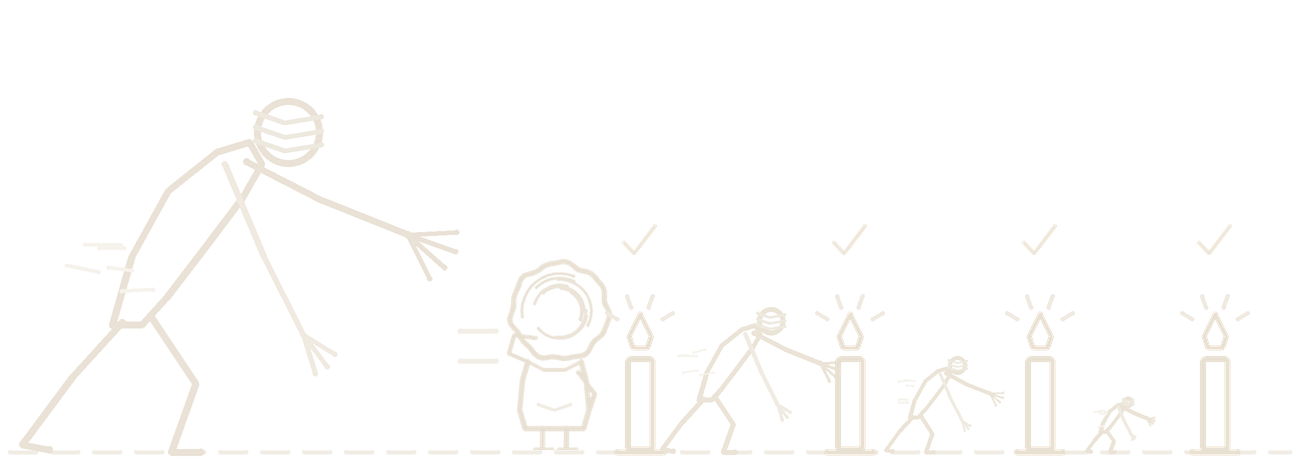
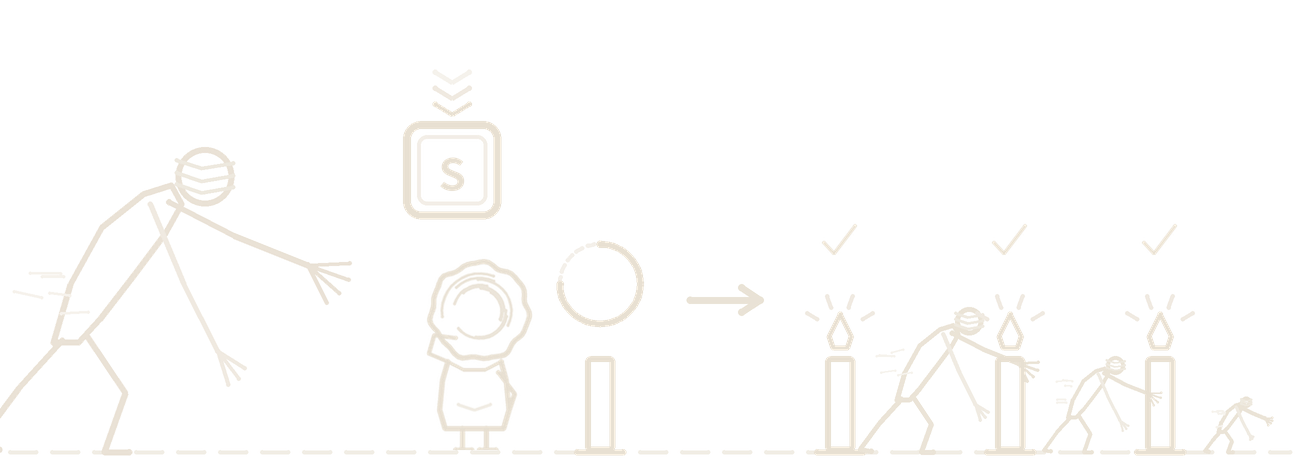
荒原鳥轉向改成直接翻面不破圖；玻璃館「按住 S 點燃」的線條畫提示
IndividualBirdEnemy：鳥的朝向只在畫面左右之間翻面（FaceDirection），不再 Slerp 經過鏡頭軸；側向分量保留下限，復飛卡住時也直接翻。
Hints/Glass_Candles_light：重畫成按住 S 點燃燭台（黑影→她→按住 S→未點燃的燭台與進度圈→點燃三根）。

Claude-Session: https://claude.ai/code/session_01YVYbGgVa5ojmU4WotKzRti

diff --git a/Assets/Codes/IndividualBirdEnemy.cs b/Assets/Codes/IndividualBirdEnemy.cs
@@ -350,6 +350,47 @@ public class IndividualBirdEnemy : MonoBehaviour, IResettable
     [Tooltip("模型旋轉偏移角度 (預設 0,0,0)")]
     public Vector3 modelRotationOffset = Vector3.zero;
 
+    // ── ★1022 轉向不破圖（M：鳥群模型轉向會破圖）──────────────────
+    //   鳥是側面看的模型；原本左右轉向是用 Slerp 慢慢繞過正面，中間那幾格看到的是薄片、翻面，就是破圖。
+    //   改成：水平朝向一變就直接翻面（像 2D 翻面），只有同一側的俯仰、側傾才平滑；
+    //   而且朝向永遠保留一點水平分量，不會變成正對鏡頭或直上直下。
+    [Header("★1022 轉向不破圖")]
+    [Tooltip("開＝左右朝向改變時直接翻面，不經過正面；關＝原本的平滑轉向")]
+    public bool snapHorizontalFlip = true;
+    [Tooltip("朝向的水平分量小於這個值時沿用上一個朝向，避免 8 字端點來回抖")]
+    public float flipDeadZone = 0.08f;
+    [Tooltip("朝向至少保留多少水平分量（0～1），避免模型正對鏡頭、直上或直下時看起來像薄片")]
+    [Range(0.1f, 0.9f)] public float minSideComponent = 0.35f;
+    private int _faceSign = 0;
+
+    /// <summary>★1022 把「朝 dir 看」套到 transform.rotation：水平朝向翻面就直接套，同一側才平滑。</summary>
+    private void FaceDirection(Vector3 dir, Vector3 up, Vector3 extraEuler, float smooth)
+    {
+        if (dir.sqrMagnitude < 0.0001f) return;
+        if (!snapHorizontalFlip)
+        {
+            Quaternion plain = Quaternion.LookRotation(dir.normalized, up) * Quaternion.Euler(modelRotationOffset + extraEuler);
+            transform.rotation = Quaternion.Slerp(transform.rotation, plain, Time.deltaTime * smooth);
+            return;
+        }
+        float x = Vector3.Dot(dir, _camRight);
+        float y = Vector3.Dot(dir, _camUp);
+        int sgn = Mathf.Abs(x) < flipDeadZone ? _faceSign : (x >= 0f ? 1 : -1);
+        if (sgn == 0) sgn = 1;
+        Vector3 side = _camRight * (sgn * Mathf.Max(Mathf.Abs(x), minSideComponent)) + _camUp * y;
+        if (side.sqrMagnitude < 0.0001f) side = _camRight * sgn;
+        Quaternion target = Quaternion.LookRotation(side.normalized, up) * Quaternion.Euler(modelRotationOffset + extraEuler);
+        if (sgn != _faceSign)
+        {
+            _faceSign = sgn;
+            transform.rotation = target;   // 翻面：一格到位，不繞過正面
+        }
+        else
+        {
+            transform.rotation = Quaternion.Slerp(transform.rotation, target, Time.deltaTime * smooth);
+        }
+    }
+
     // ── ★0905 荒原四拍 ─────────────────────────────────────────
     [Header("★0905 起風反應（閒置鳥當風向標）")]
     [Tooltip("前兆時全體抬高、吹風時往下風飄；鳥先動＝第二個起風前兆（Rain World：動物先知道）")]
@@ -719,16 +760,14 @@ public class IndividualBirdEnemy : MonoBehaviour, IResettable
                 lookDir.z = 0f;
                 if (lookDir.sqrMagnitude > 0.001f)
                 {
-                    Quaternion targetRot = Quaternion.LookRotation(lookDir.normalized, Vector3.up) * Quaternion.Euler(modelRotationOffset);
-                    transform.rotation = Quaternion.Slerp(transform.rotation, targetRot, Time.deltaTime * attackAngleCueTurnSpeed);
+                    FaceDirection(lookDir, Vector3.up, Vector3.zero, attackAngleCueTurnSpeed);   // ★1022 翻面不破圖
                 }
             }
             else if (playerTrans != null)
             {
                 float dx = playerTrans.position.x - transform.position.x;
                 Vector3 lookDir = dx < 0 ? Vector3.left : Vector3.right;
-                Quaternion targetRot = Quaternion.LookRotation(lookDir, Vector3.up) * Quaternion.Euler(modelRotationOffset);
-                transform.rotation = Quaternion.Slerp(transform.rotation, targetRot, Time.deltaTime * 8f);
+                FaceDirection(lookDir, Vector3.up, Vector3.zero, 8f);   // ★1022 翻面不破圖
             }
         }
     }
@@ -801,8 +840,7 @@ public class IndividualBirdEnemy : MonoBehaviour, IResettable
             aim.z = 0f;
             if (aim.sqrMagnitude > 0.001f)
             {
-                Quaternion aimRot = Quaternion.LookRotation(aim.normalized, Vector3.up) * Quaternion.Euler(modelRotationOffset);
-                transform.rotation = Quaternion.Slerp(transform.rotation, aimRot, Time.deltaTime * attackAngleCueTurnSpeed);
+                FaceDirection(aim, Vector3.up, Vector3.zero, attackAngleCueTurnSpeed);   // ★1022 翻面不破圖
             }
         }
         else if (flightDir.sqrMagnitude > 0.001f)
@@ -813,8 +851,7 @@ public class IndividualBirdEnemy : MonoBehaviour, IResettable
             _currentTiltZ = Mathf.Lerp(_currentTiltZ, targetTiltZ, Time.deltaTime * 5f);
 
             // 6. 綜合 LookRotation 與 模型旋轉偏移 (modelRotationOffset)
-            Quaternion targetRot = Quaternion.LookRotation(flightDir, _camUp) * Quaternion.Euler(modelRotationOffset + new Vector3(0f, 0f, _currentTiltZ));
-            transform.rotation = Quaternion.Slerp(transform.rotation, targetRot, Time.deltaTime * rotationSmoothSpeed);
+            FaceDirection(flightDir, _camUp, new Vector3(0f, 0f, _currentTiltZ), rotationSmoothSpeed);   // ★1022 翻面不破圖
         }
     }
 
@@ -1351,8 +1388,7 @@ public class IndividualBirdEnemy : MonoBehaviour, IResettable
             dp.y -= _atkDescent * Time.deltaTime;
             transform.position = dp;
 
-            Quaternion targetRot = Quaternion.LookRotation(lookDown, Vector3.up) * Quaternion.Euler(modelRotationOffset);
-            transform.rotation = Quaternion.Slerp(transform.rotation, targetRot, Time.deltaTime * 8f);
+            FaceDirection(lookDown, Vector3.up, Vector3.zero, 8f);   // ★1022 翻面不破圖（俯衝：水平分量本來就只有 0.35）
 
             // 命中判定：當鳥撲擊接近目標時結算
             if (playerTrans != null)
@@ -2013,7 +2049,7 @@ public class IndividualBirdEnemy : MonoBehaviour, IResettable
             t += Time.deltaTime / dur;
             float k = Mathf.SmoothStep(0f, 1f, Mathf.Clamp01(t));
             transform.position = Vector3.Lerp(start, target, k);
-            stuckRotation = Quaternion.Slerp(startRot, endRot, k);   // Stuck 狀態下 LateUpdate 會把姿態鎖在 stuckRotation，所以改這個才轉得動
+            stuckRotation = snapHorizontalFlip ? (k < 0.5f ? startRot : endRot) : Quaternion.Slerp(startRot, endRot, k);   // Stuck 狀態下 LateUpdate 會把姿態鎖在 stuckRotation，所以改這個才轉得動；★1022 翻面不破圖：拔起時一格翻到位
             transform.rotation = stuckRotation;
             yield return null;
         }
